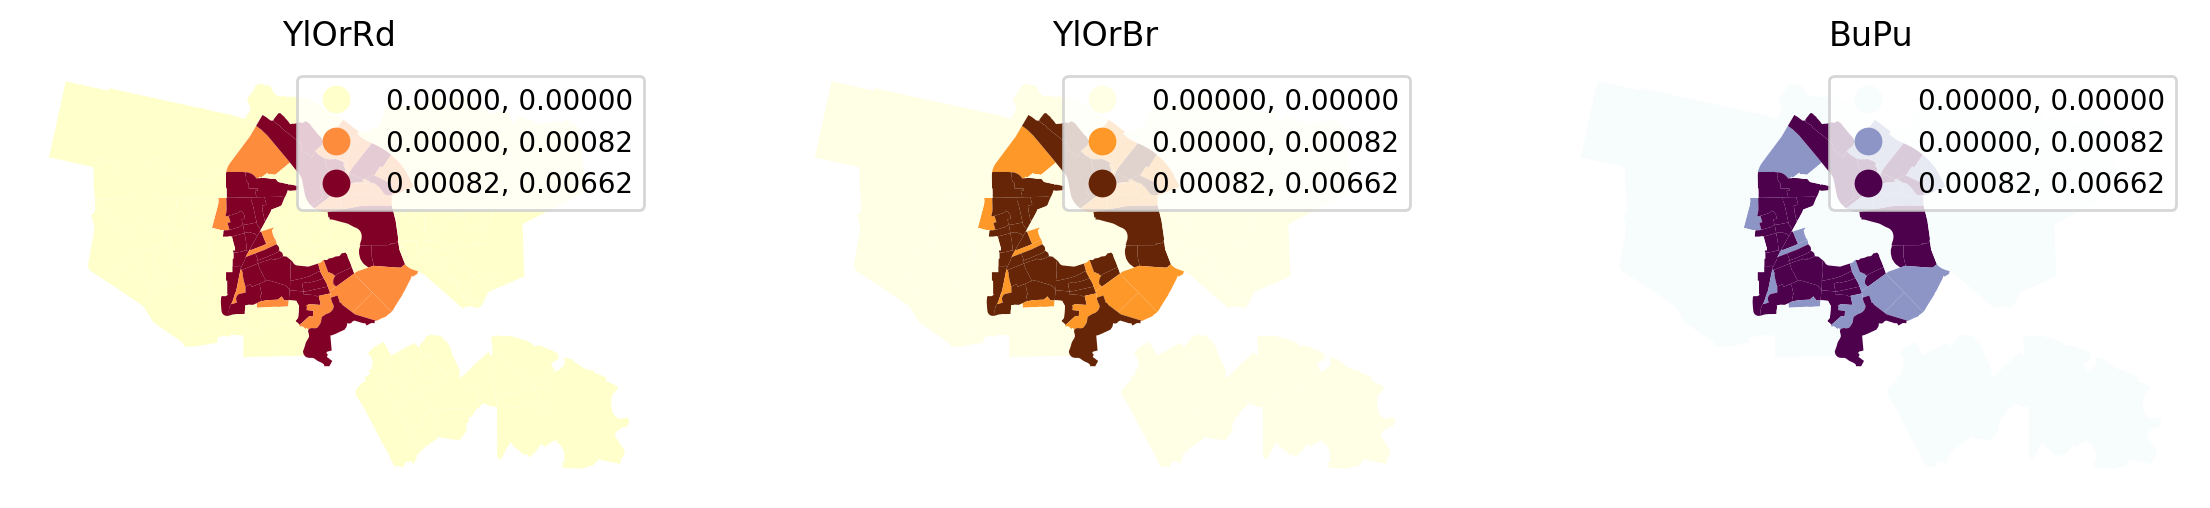
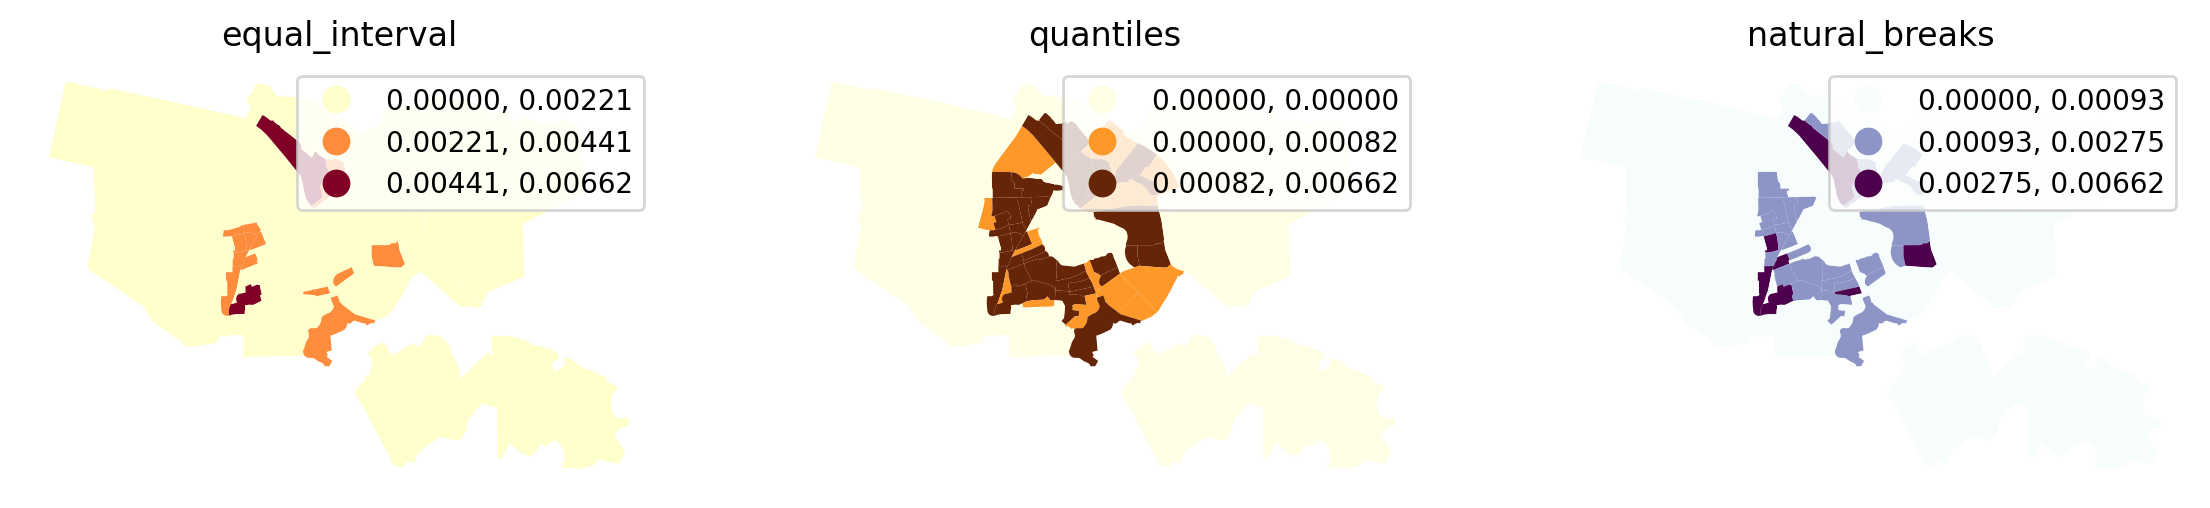
01 urban density: three classification schemes (was hardcoded to quantiles); README documents schemes, data skew and interpreter requirement

diff --git a/01-urban-density/Amsterdam_architecture_density.py b/01-urban-density/Amsterdam_architecture_density.py
@@ -41,9 +41,9 @@ result1.to_file(os.path.join(data_dir, "Amsterdam_architecture_density.geojson")
 fig, ax = plt.subplots(1,3,figsize = (14,12))
 schemes = ['equal_interval','quantiles','natural_breaks']
 cmaps = ['YlOrRd','YlOrBr',"BuPu"]
-for ax, cmap in zip(ax, cmaps):
-    result1.plot(column='cover_ratio',scheme = 'quantiles', k = 3, cmap=cmap,legend=True,ax = ax, legend_kwds={'fmt': '{:.5f}'})
-    ax.set_title(cmap)
+for ax, sch, c in zip(ax, schemes, cmaps):
+    result1.plot(column='cover_ratio',scheme = sch, k = 3, cmap=c,legend=True,ax = ax, legend_kwds={'fmt': '{:.5f}'})
+    ax.set_title(sch)
     ax.set_axis_off()
 
 plt.savefig(os.path.join(data_dir, 'Amsterdam_arch_density.png'), dpi=200, bbox_inches='tight')

diff --git a/01-urban-density/README.md b/01-urban-density/README.md
@@ -21,8 +21,36 @@ Analyses building density per neighbourhood in Amsterdam using GeoPandas.
 python Amsterdam_architecture_density.py
 ```
 
+**Interpreter note:** this script needs `geopandas` + `mapclassify`, which on this machine are
+installed in the **Anaconda** environment, **not** in the project's `.venv` (that one is PyTorch-only).
+Run it with the Anaconda interpreter:
+
+```powershell
+& 'D:\Users\Administration\anaconda3\python.exe' Amsterdam_architecture_density.py
+```
+
+`plt.show()` blocks when run from a terminal — set `MPLBACKEND=Agg` to run headless.
+
 ## Output
 
 - `data/coverage_status.csv`
 - `data/Amsterdam_architecture_density.geojson`
 - PNG result maps
+
+## Three classification schemes compared
+
+`data/Amsterdam_arch_density.png` shows the **same** `cover_ratio` data classified three ways
+(数据：111 个街区，`cover_ratio` 范围 0 – 0.00662，均值 0.00078，中位数 0，
+51.4% 为零值，偏度 2.04、峰度 5.23):
+
+| panel | scheme | class breaks | neighbourhoods per class |
+|---|---|---|---|
+| left | `equal_interval` | 0.00221 / 0.00441 | 96 / 13 / 2 |
+| middle | `quantiles` | 0.0 / 0.00082 | 57 / 17 / 37 |
+| right | `natural_breaks` | 0.00093 / 0.00275 | 76 / 28 / 7 |
+
+Pairwise，分档不同的街区占比：`equal_interval` vs `quantiles` **46.8%**，
+`quantiles` vs `natural_breaks` **42.3%**，`equal_interval` vs `natural_breaks` **22.5%**。
+
+差异集中在最高密度档：三种方案分别只有 **2 / 37 / 7** 个街区落入最高档。
+等距表示绝对量/分位看各自相对排名/自然断点看数据结构
